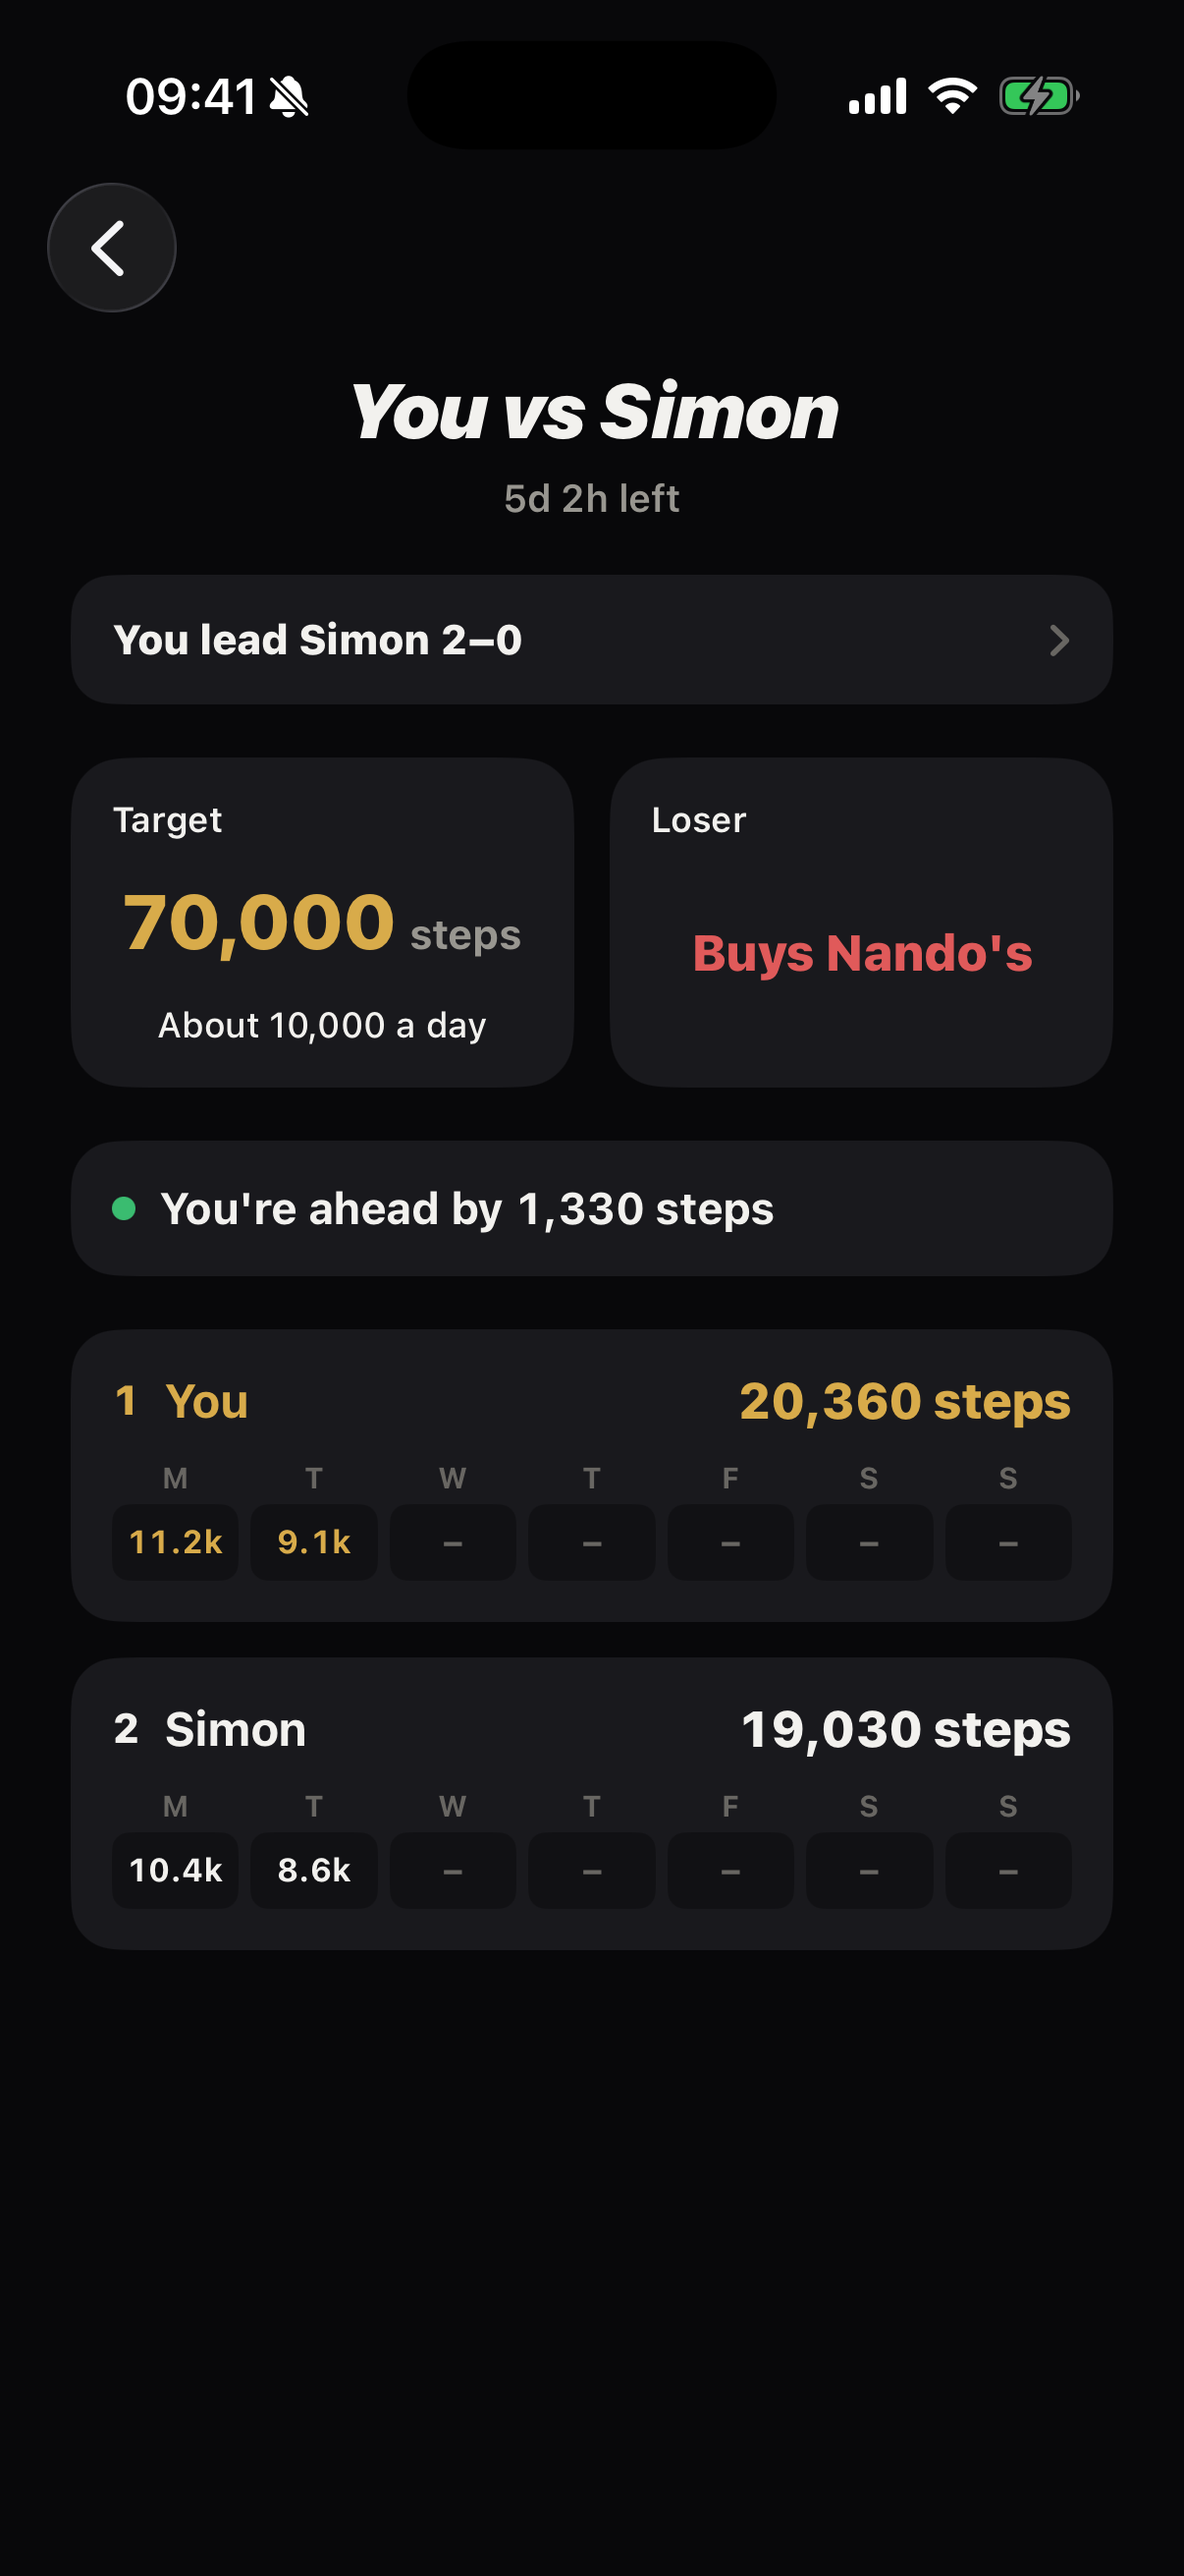
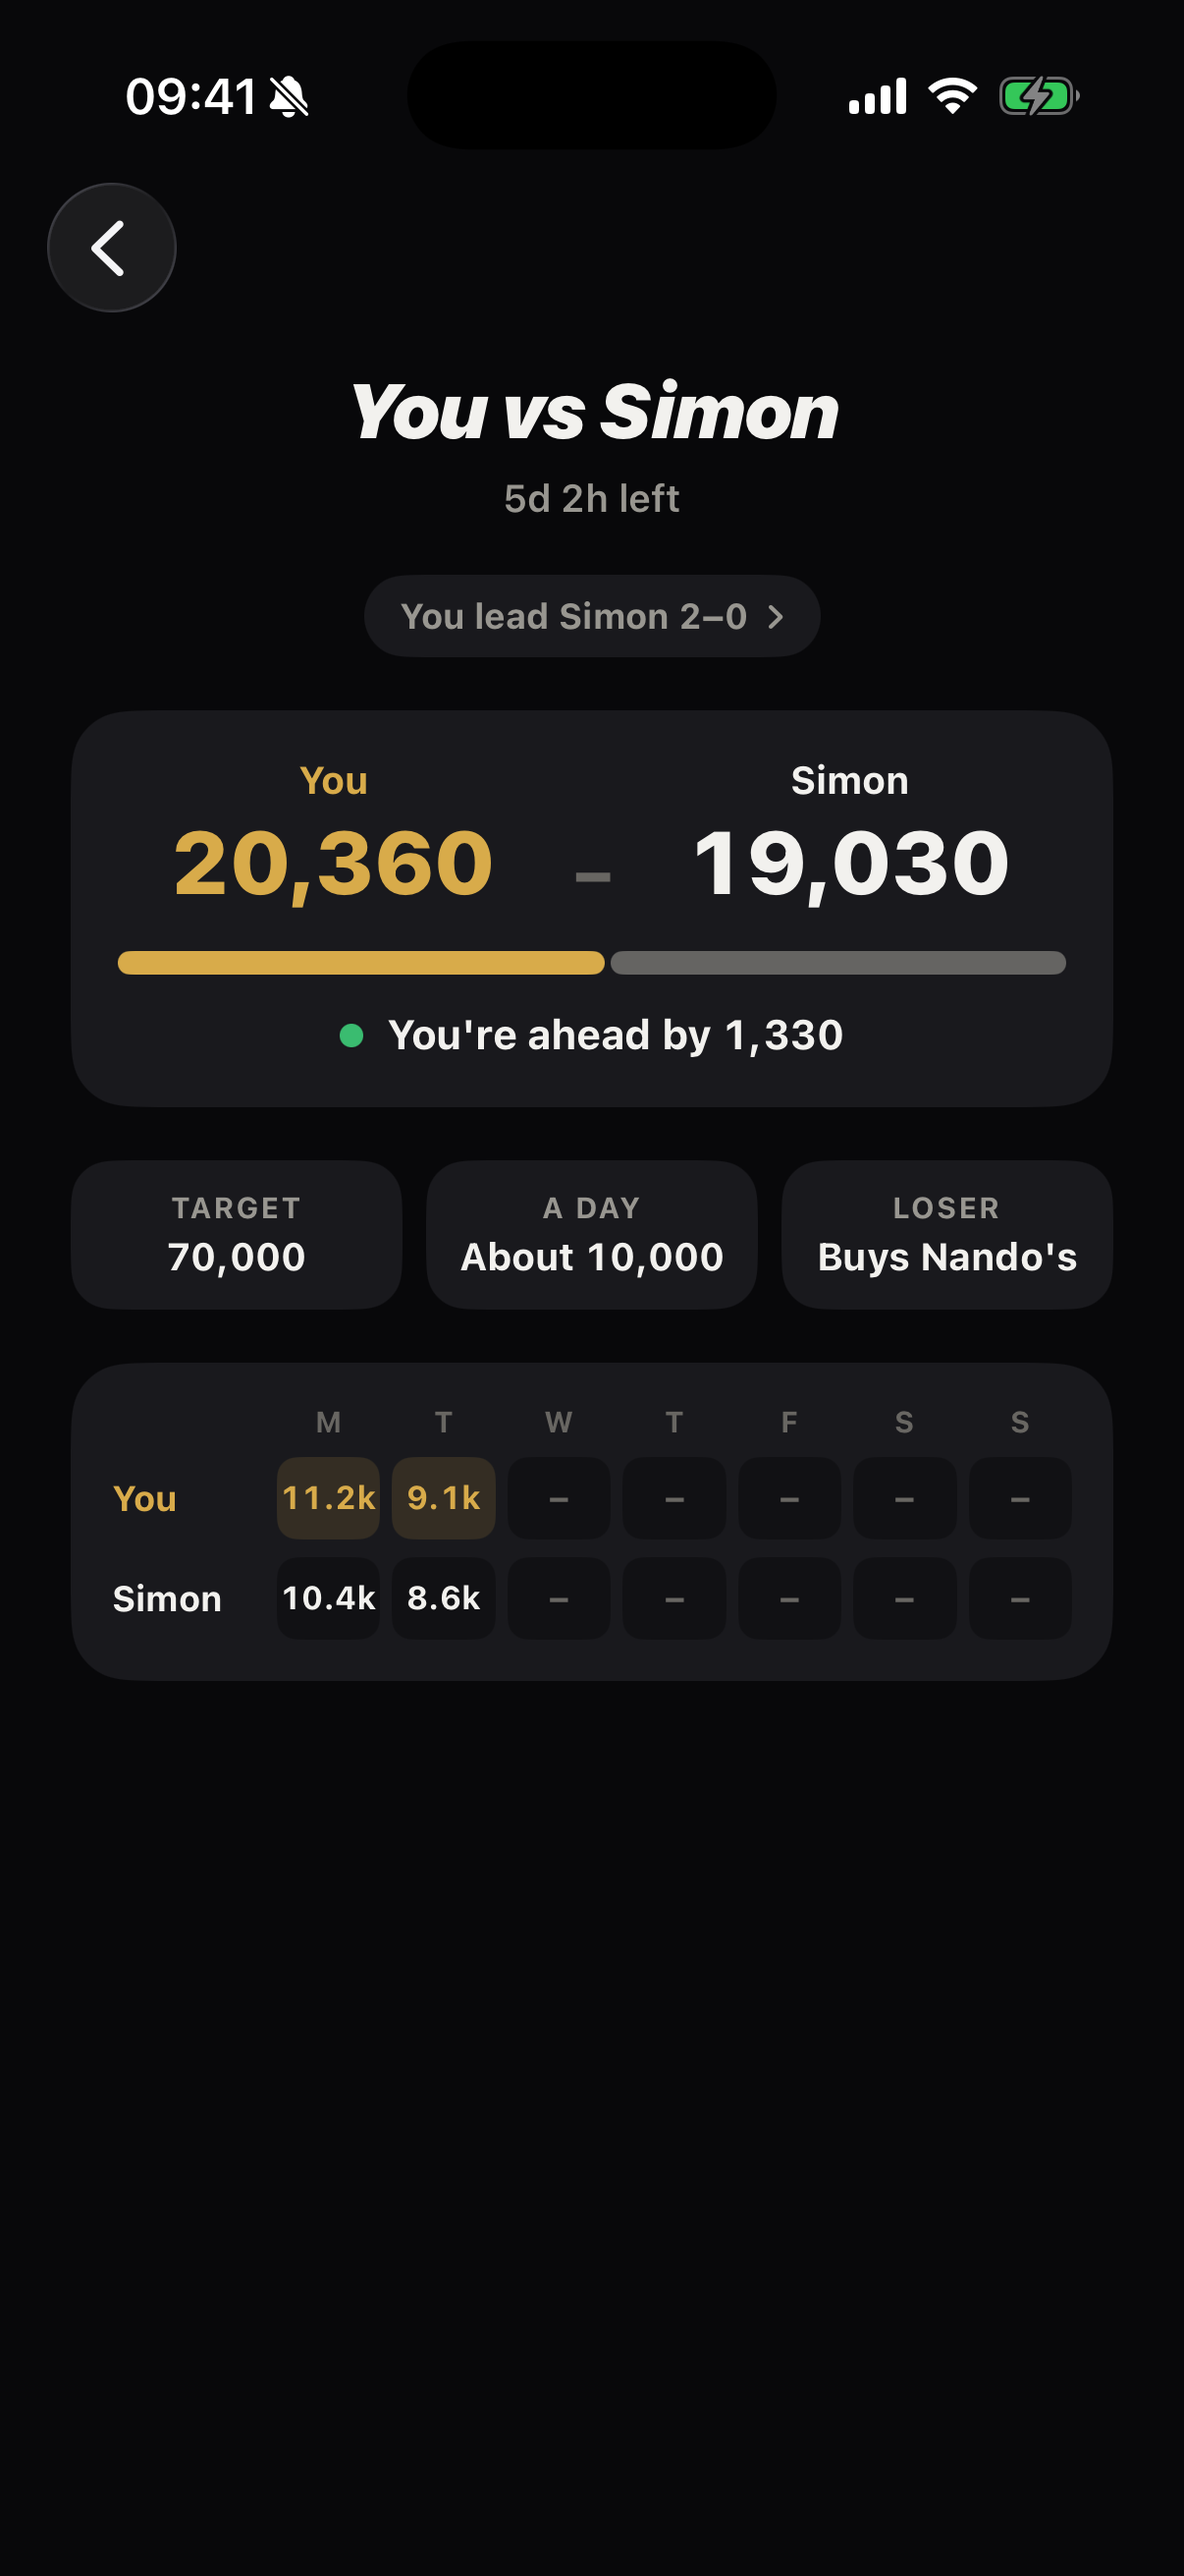
New Hustle page screenshot (scoreboard design)
Claude-Session: https://claude.ai/code/session_01M8LPGbBaNUuEXpz4UKXX8h

diff --git a/index.html b/index.html
@@ -52,7 +52,7 @@
 
       <div class="hero-phones" aria-hidden="false">
         <div class="phone phone-side"><img src="img/shot-friends.png?v=2" alt="The Friends tab ranking you and your mates on steps" width="1206" height="2622"></div>
-        <div class="phone phone-main"><img src="img/shot-hustle.png?v=2" alt="A 1v1 step challenge between two friends, with the forfeit at stake" width="1206" height="2622"></div>
+        <div class="phone phone-main"><img src="img/shot-hustle.png?v=3" alt="A 1v1 step challenge between two friends, with the forfeit at stake" width="1206" height="2622"></div>
         <div class="phone phone-side"><img src="img/shot-home.png?v=2" alt="The Hustlrs home screen with today's step ring" width="1206" height="2622"></div>
       </div>
     </section>
